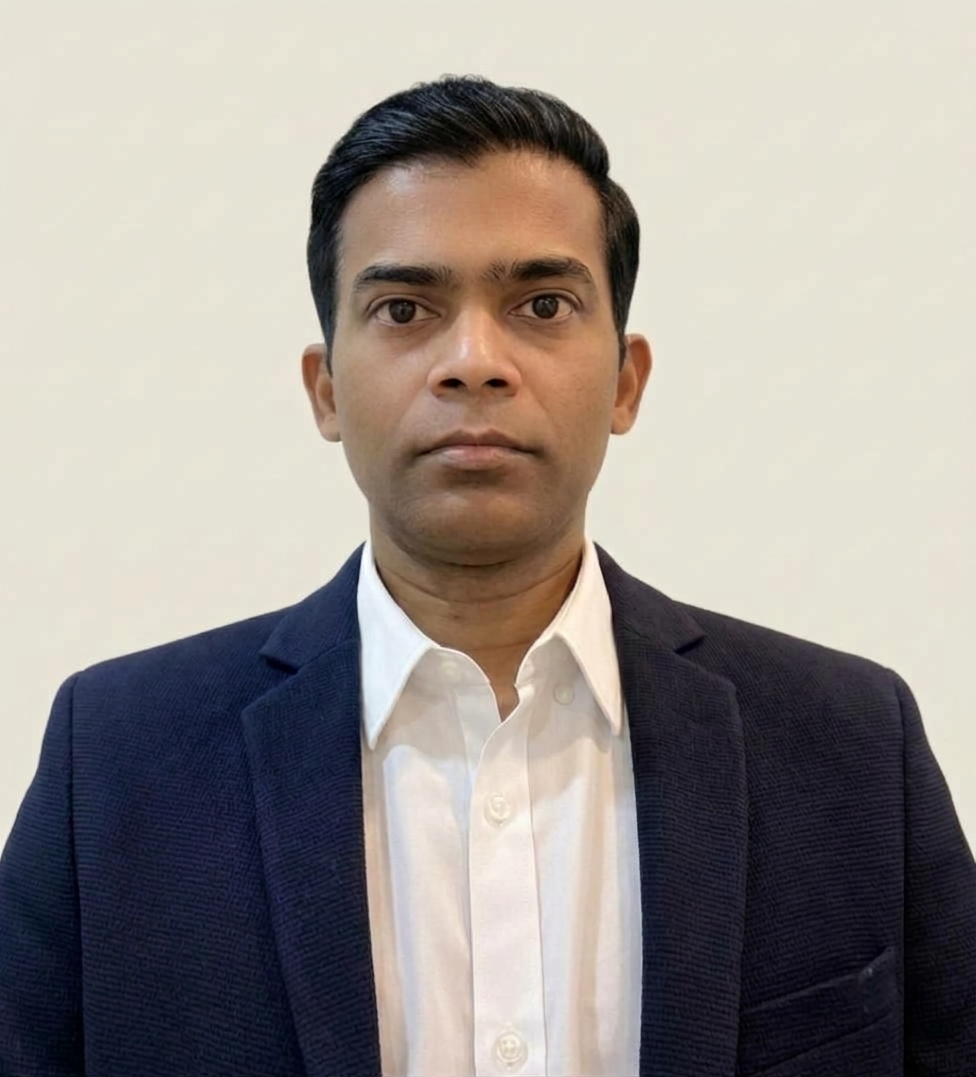
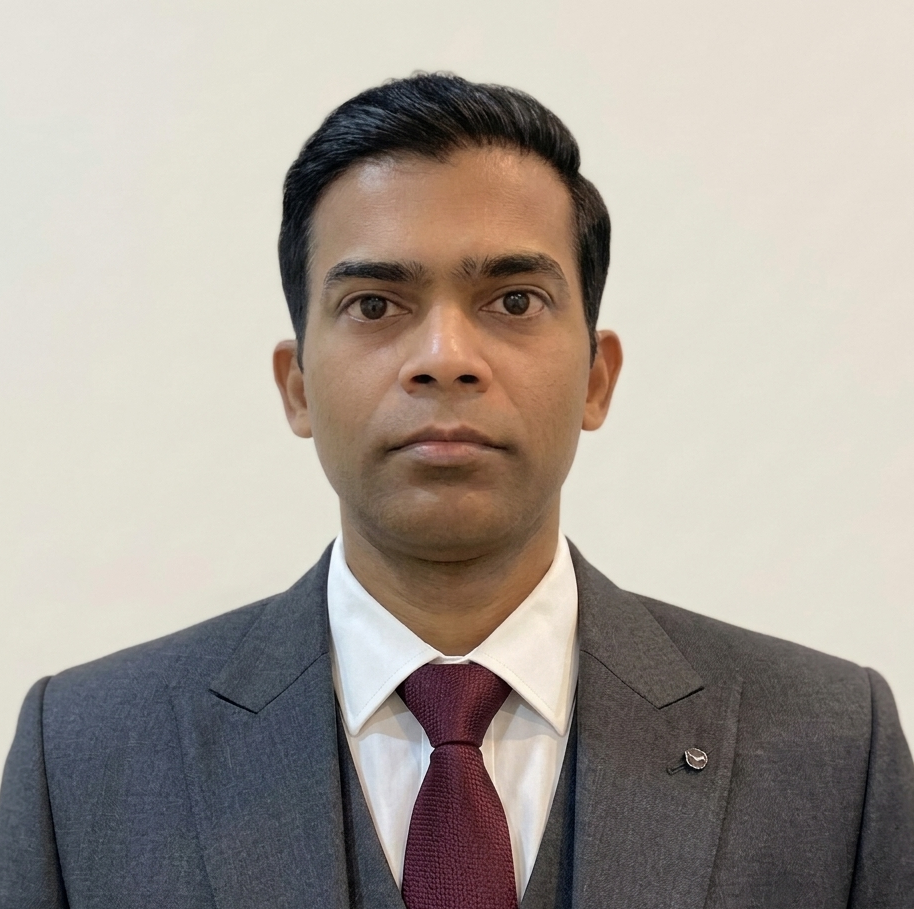
Add credential links, OSS stat, verify CSS, update photo

diff --git a/index.html b/index.html
@@ -118,8 +118,8 @@
             <span class="stat-label">Certifications</span>
           </div>
           <div class="stat-card" data-aos>
-            <span class="stat-number" data-target="5">0</span>
-            <span class="stat-label">AI Products</span>
+            <span class="stat-number" data-target="7">0</span>
+            <span class="stat-label">OSS Projects</span>
           </div>
           <div class="stat-card" data-aos>
             <span class="stat-number" data-target="5">0</span><span class="stat-plus">+</span>
@@ -403,10 +403,11 @@
               <li>Built an AI token-optimization orchestrator and Claude-based automated PR review system, reducing review cycle time across the engineering team.</li>
               <li>Standardized 50+ Azure resources using Terraform/IaC for a German automotive client, <strong>reducing deployment risks by 40%</strong>.</li>
               <li>Engineered secure CI/CD pipelines on AKS with GitHub Actions, <strong>cutting time-to-market by 35%</strong>.</li>
+              <li>Leading a GitLab to GitHub Enterprise migration track for an Austrian insurance client; identified 3 bugs in GitHub's own migration tooling and submitted a fix directly to GitHub's open source <code>gh-gei</code> codebase — merged and released by GitHub's maintainer.</li>
               <li>Mentored 5 engineers in AI-augmented development practices; contributed to RFPs and solution design proposals.</li>
             </ul>
             <div class="timeline-tags">
-              <span>Azure</span><span>Terraform</span><span>AKS</span><span>GitHub Actions</span><span>SonarQube</span><span>DevSecOps</span><span>Claude API</span>
+              <span>Azure</span><span>Terraform</span><span>AKS</span><span>GitHub Actions</span><span>SonarQube</span><span>DevSecOps</span><span>Claude API</span><span>GitHub Enterprise</span>
             </div>
           </div>
         </div>
@@ -621,6 +622,16 @@
             <span class="cert-badge lang-badge">B1</span>
           </div>
         </div>
+      </div>
+
+      <div class="certs-verify">
+        <span class="certs-verify-label">Verify credentials</span>
+        <a href="https://credly.com/user/kalaiguna" target="_blank" rel="noopener noreferrer" class="verify-link">
+          <span class="verify-icon">🏅</span> Credly Badges
+        </a>
+        <a href="https://learn.microsoft.com/en-us/users/kalaiguna/transcript/7kn1jbwope5o83z" target="_blank" rel="noopener noreferrer" class="verify-link">
+          <span class="verify-icon">📋</span> Microsoft Learn Transcript
+        </a>
       </div>
 
     </div>

diff --git a/style.css b/style.css
@@ -626,6 +626,11 @@ button { cursor: pointer; border: none; background: none; }
   color: var(--text-muted); font-size: 0.9rem; margin-bottom: 7px; line-height: 1.65;
 }
 .timeline-bullets li strong { color: var(--text); }
+.timeline-bullets li code {
+  font-family: var(--mono); font-size: 0.82em;
+  background: rgba(0,120,212,0.1); border: 1px solid rgba(0,120,212,0.2);
+  border-radius: 4px; padding: 1px 6px; color: #5ba8e5;
+}
 
 .timeline-tags { display: flex; flex-wrap: wrap; gap: 6px; }
 .timeline-tags span {
@@ -711,6 +716,31 @@ button { cursor: pointer; border: none; background: none; }
 /* ============================================================
    CONTACT
    ============================================================ */
+.certs-verify {
+  display: flex; align-items: center; flex-wrap: wrap; gap: 12px;
+  margin-top: 36px; padding-top: 28px;
+  border-top: 1px solid var(--border-soft);
+}
+.certs-verify-label {
+  font-family: var(--mono); font-size: 0.68rem;
+  text-transform: uppercase; letter-spacing: 0.1em;
+  color: var(--text-faint); margin-right: 4px;
+}
+.verify-link {
+  display: inline-flex; align-items: center; gap: 7px;
+  padding: 8px 16px; border-radius: 8px;
+  border: 1px solid var(--border);
+  background: var(--bg-card);
+  font-size: 0.84rem; font-weight: 500; color: var(--text-muted);
+  transition: all var(--tr);
+}
+.verify-link:hover {
+  border-color: var(--primary); color: var(--primary);
+  background: rgba(0,120,212,0.07);
+  transform: translateY(-2px);
+}
+.verify-icon { font-size: 1rem; }
+
 .contact-grid {
   display: grid; grid-template-columns: repeat(auto-fill, minmax(230px,1fr)); gap: 16px;
 }
